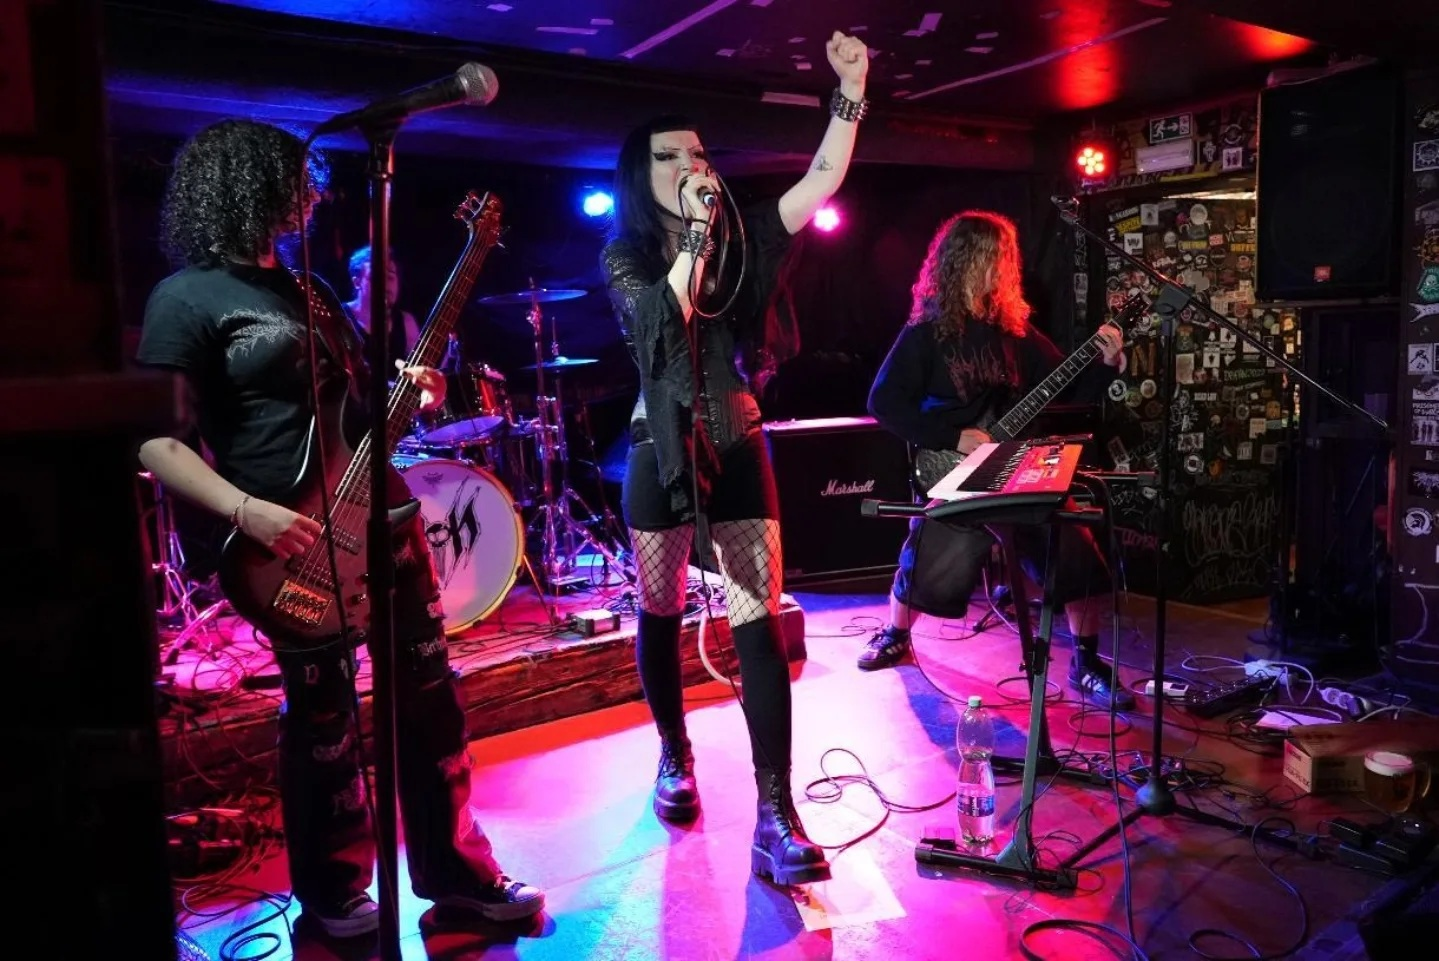
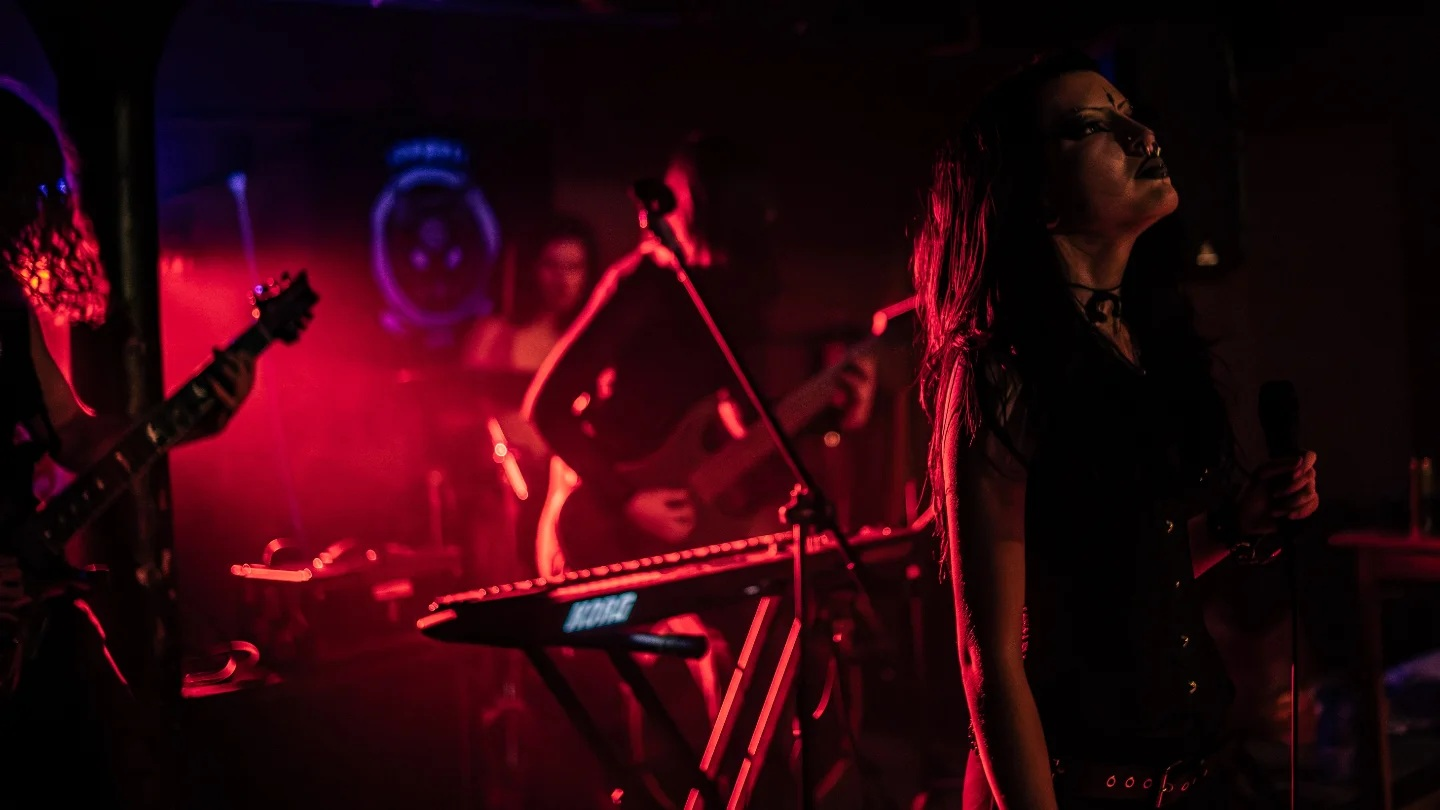
Add files via upload

diff --git a/css/bhlvn.css b/css/bhlvn.css
@@ -242,7 +242,7 @@ html {
 
 body {
   min-height: 100%;
-  color: #333;
+  color: var( --bckGradFrom );
   background-color: #fff;
   margin: 0;
   font-family: Inter, sans-serif;
@@ -383,8 +383,8 @@ label {
 
 .hlv-container {
   max-width: 940px;
-  margin-left: auto;
-  margin-right: auto;
+  margin-left: 15px;
+  margin-right: 15px;
   padding-bottom: 60px;
 }
 
@@ -1008,7 +1008,7 @@ html { scroll-padding-top: 50px; }
 }
 
 .body {
-  background-color: #110d0d;
+  background-color: var(--bckGradFrom);
   font-family: Inter, sans-serif;
   font-weight: 400;
 }
@@ -1594,8 +1594,8 @@ html { scroll-padding-top: 50px; }
     padding-right: 0;
   }
   .team_short {
-    padding-left: 40px;
-    padding-right: 40px;
+    padding-left: 10px;
+    padding-right: 10px;
   }
 
   .intro_block {
@@ -1659,7 +1659,7 @@ html { scroll-padding-top: 50px; }
 
   .image_2,
   .image_3 {
-    max-width: 60%;
+    max-width: 100%;
   }
 
   .team-grid {
@@ -1802,8 +1802,8 @@ html { scroll-padding-top: 50px; }
   }
 
   .team_short {
-    margin-left: 40px;
-    margin-right: 40px;
+    margin-left: 10px;
+    margin-right: 10px;
     padding-top: 60px;
     padding-bottom: 40px;
   }
